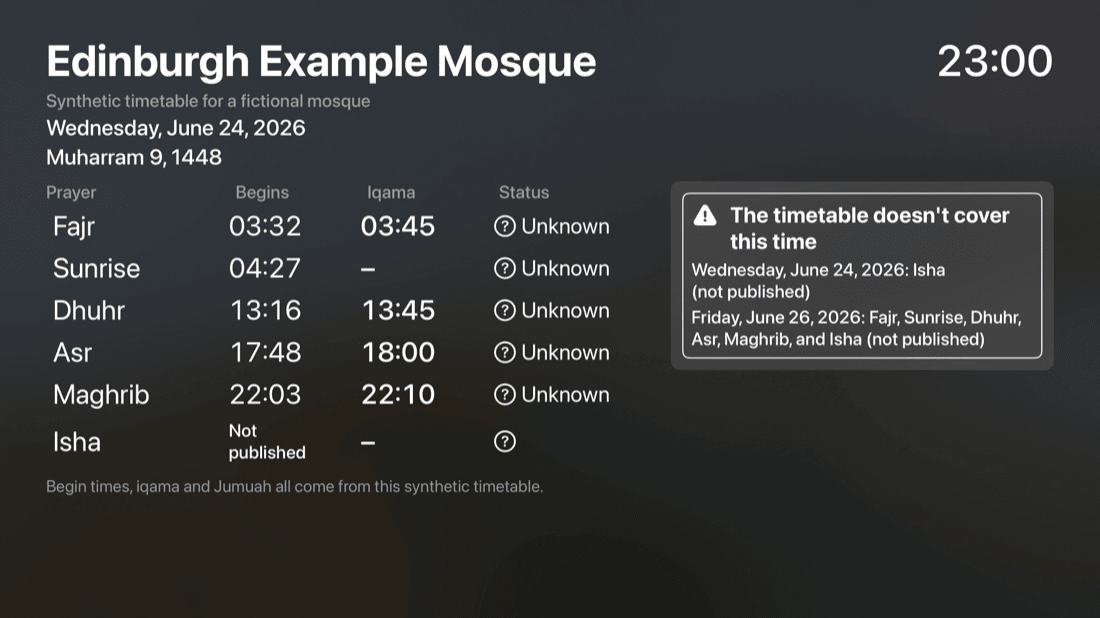
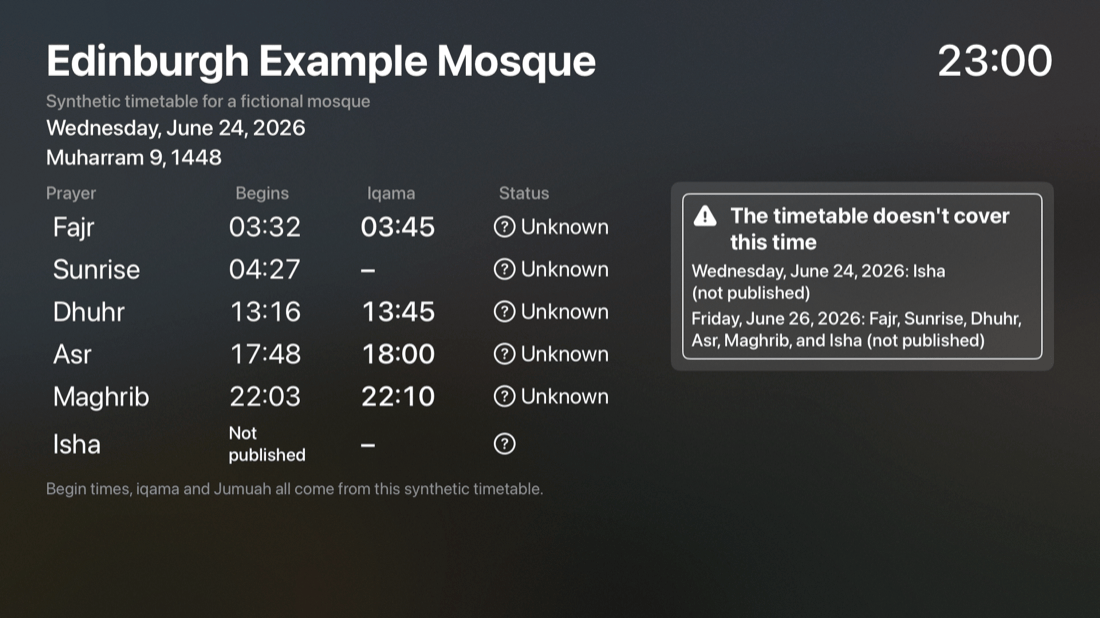
Fit MosqueBoard's tallest TV board inside the safe area
Every night from Isha to its iqama, the panel shows that Isha has
started, the next Fajr, its countdown and the timetable it comes from,
which pushed the licence's attribution below the safe area. The TV's
panel spacing and countdown are smaller, and a journey checks that
board in English and Arabic.

diff --git a/Examples/MosqueBoard/MosqueBoardTVUITests/MosqueBoardTVJourneys.swift b/Examples/MosqueBoard/MosqueBoardTVUITests/MosqueBoardTVJourneys.swift
@@ -106,7 +106,7 @@ nonisolated final class MosqueBoardTVJourneys: XCTestCase {
     XCTAssertEqual(label("row.isha.nextDay", in: app), "Next day")
     XCTAssertEqual(label("row.maghrib.status", in: app), "Passed")
     assertMissing("next.owningDay", in: app)
-    // The tallest board: a row with a "Next day" mark still fits.
+    // A row with a "Next day" mark still fits.
     assertFitsOnScreen(app)
     app.terminate()
 
@@ -120,6 +120,28 @@ nonisolated final class MosqueBoardTVJourneys: XCTestCase {
     XCTAssertEqual(label("row.fajr.status", in: app), "Upcoming")
     assertFitsOnScreen(app)
     screenshot("tv-04b-edinburgh-after-midnight")
+  }
+
+  /// The tallest board, every night from Isha to its iqama: "Isha has started", the next
+  /// Fajr with its countdown, and the timetable it comes from, in English and Arabic. The
+  /// licence's attribution still ends inside the safe area.
+  @MainActor
+  func testIshaJustStarted() {
+    var app = launchBoard("muis", at: "2026-10-14T20:05:00+08:00")
+    XCTAssertEqual(label("next.justStarted", in: app), "Isha has started")
+    XCTAssertEqual(label("next.name", in: app), "Fajr")
+    XCTAssertEqual(
+      label("next.owningDay", in: app), "From the timetable of Thursday, October 15, 2026")
+    assertFitsOnScreen(app)
+    screenshot("tv-05-muis-isha-started")
+    app.terminate()
+
+    app = launchBoard("muis", at: "2026-10-14T20:05:00+08:00", language: "ar")
+    XCTAssertTrue(element("next.justStarted", in: app).exists)
+    XCTAssertEqual(label("next.name", in: app), "الفجر")
+    XCTAssertTrue(element("next.owningDay", in: app).exists)
+    assertFitsOnScreen(app)
+    screenshot("tv-05-muis-isha-started-arabic")
   }
 
   /// The partial row of 24 June: Isha isn't published, so the board names no next prayer and no

diff --git a/Examples/MosqueBoard/Shared/BoardView.swift b/Examples/MosqueBoard/Shared/BoardView.swift
@@ -38,10 +38,14 @@ nonisolated enum BoardStyle {
     static let message = Font.headline
     static let nextName = Font.title.bold()
     static let nextTime = Font.title3
-    static let countdown = Font.system(size: 140, weight: .bold).monospacedDigit()
+    static let countdown = Font.system(size: 120, weight: .bold).monospacedDigit()
     /// The TV board is fitted to the screen, where a countdown that may shrink is the first
     /// text SwiftUI shrinks. The panel is wide enough for any countdown at full size.
     static let countdownMinimumScale: CGFloat = 1
+    /// The next-prayer panel's spacing. The TV's tallest panel, every night from Isha to its
+    /// iqama ("Isha has started", the next Fajr, its countdown and the timetable it comes
+    /// from), must leave room for the footer inside the safe area.
+    static let panelSpacing: CGFloat = 6
     static let gap = Font.callout
     static let timeWidth: CGFloat = 170
     static let statusWidth: CGFloat = 280
@@ -64,6 +68,7 @@ nonisolated enum BoardStyle {
     static let nextTime = Font.title2
     static let countdown = Font.system(size: 64, weight: .bold).monospacedDigit()
     static let countdownMinimumScale: CGFloat = 0.5
+    static let panelSpacing: CGFloat = 12
     static let gap = Font.body
     static let timeWidth: CGFloat = 96
     static let statusWidth: CGFloat = 150
@@ -296,7 +301,7 @@ private struct StatusPanel: View {
   let strings: BoardStrings
 
   var body: some View {
-    VStack(alignment: .leading, spacing: 12) {
+    VStack(alignment: .leading, spacing: BoardStyle.panelSpacing) {
       if let started = snapshot.justStarted {
         Text(verbatim: started)
           .font(BoardStyle.message.bold())

diff --git a/Examples/MosqueBoard/README.md b/Examples/MosqueBoard/README.md
@@ -20,7 +20,7 @@ The board redraws every second, which drives the countdown and also catches ever
 The tvOS app shows the same board from the same code, with the same launch arguments. What differs:
 
 - The TV is always landscape, so the next-prayer panel always sits beside the table, on the left in Arabic.
-- The whole board fits inside the TV's safe area. Nothing on the board takes focus, so it can't scroll. tvOS's text styles are already sized for reading across a room, so the TV uses smaller styles than the iPad, and a 140-point countdown.
+- The whole board fits inside the TV's safe area. Nothing on the board takes focus, so it can't scroll. tvOS's text styles are already sized for reading across a room, so the TV uses smaller styles than the iPad, and a 120-point countdown. The tallest board, every night from Isha to its iqama ("Isha has started", the next Fajr and the timetable it comes from), sets the TV's sizes.
 - The screen saver stays off while the app is open (`isIdleTimerDisabled`), because nobody touches a mosque's TV.
 - tvOS has no Dynamic Type setting and no system background colors, so the TV draws on its own background with translucent panels.
 
@@ -82,7 +82,7 @@ These come from the tvOS journeys on an Apple TV 4K (3rd generation) simulator w
 | A normal MUIS day | Arabic, right to left |
 | ![Isha after midnight on Apple TV](Screenshots/tv-04b-edinburgh-after-midnight.png) | ![The coverage banner on Apple TV](Screenshots/tv-03b-muis-expired.png) |
 | 00:30 on 22 June: the next prayer is 21 June's Isha | 1 January 2027: the MUIS timetable has ended |
-| ![The partial row of 24 June on Apple TV](Screenshots/tv-06a-edinburgh-partial-row.png) | |
+| ![The partial row of 24 June on Apple TV](Screenshots/tv-06a-edinburgh-partial-row.png) | ![Isha just started on Apple TV, the tallest board](Screenshots/tv-05-muis-isha-started.png) |
 | 23:00 on 24 June: no next prayer is named | |
 
 ## Building and running
@@ -129,7 +129,7 @@ Both apps take the same arguments. They read no location and store nothing, so t
   6. The partial row and the missing day show the banner, never invented times.
   7. Arabic names, Arabic-Indic digits and a right-to-left layout.
 - `MosqueBoardTVTests` also checks that the tvOS app keeps the screen saver off.
-- `MosqueBoardTVUITests` runs the iPad journeys' cases on Apple TV with the same instants and expectations: the normal MUIS day, Jumu'ah on a Friday, the expired timetable's banner, Isha after midnight, the partial row and Arabic. Because a TV board can't scroll, each also checks that the footer ends inside the safe area, and the normal day checks that the countdown isn't shrunk to fit.
+- `MosqueBoardTVUITests` runs the iPad journeys' cases on Apple TV with the same instants and expectations: the normal MUIS day, Jumu'ah on a Friday, the expired timetable's banner, Isha after midnight, the partial row and Arabic, plus the tallest board (Isha just started, in English and Arabic). Because a TV board can't scroll, each also checks that the footer ends inside the safe area, and the normal day checks that the countdown isn't shrunk to fit.
 
 ## Accessibility and languages
 

diff --git a/CHANGELOG.md b/CHANGELOG.md
@@ -24,8 +24,8 @@ All notable changes to this project are documented here. The format follows
 - **MosqueBoard for tvOS** (`MosqueBoardTV`, tvOS 17): the same board on a mosque's Apple TV,
   built from the iPad app's shared code. It links only SalahCore, fits the whole board inside
   the TV's safe area and keeps the screen saver off. Its unit tests and journeys (a normal day,
-  Jumu'ah, the expired timetable, Isha after midnight, a partial row, Arabic) run on an Apple TV
-  simulator.
+  Jumu'ah, the expired timetable, Isha after midnight, a partial row, Arabic, and the tallest
+  board, from Isha to its iqama) run on an Apple TV simulator.
 - The DocC article "Lessons from Salah": acting on the Darwin signal instead of the stored
   flag, reloading widgets only for real changes, and keeping the language's digits.
 - Governance: an RFC process in CONTRIBUTING.md, a GitHub Discussion for each RFC, and
